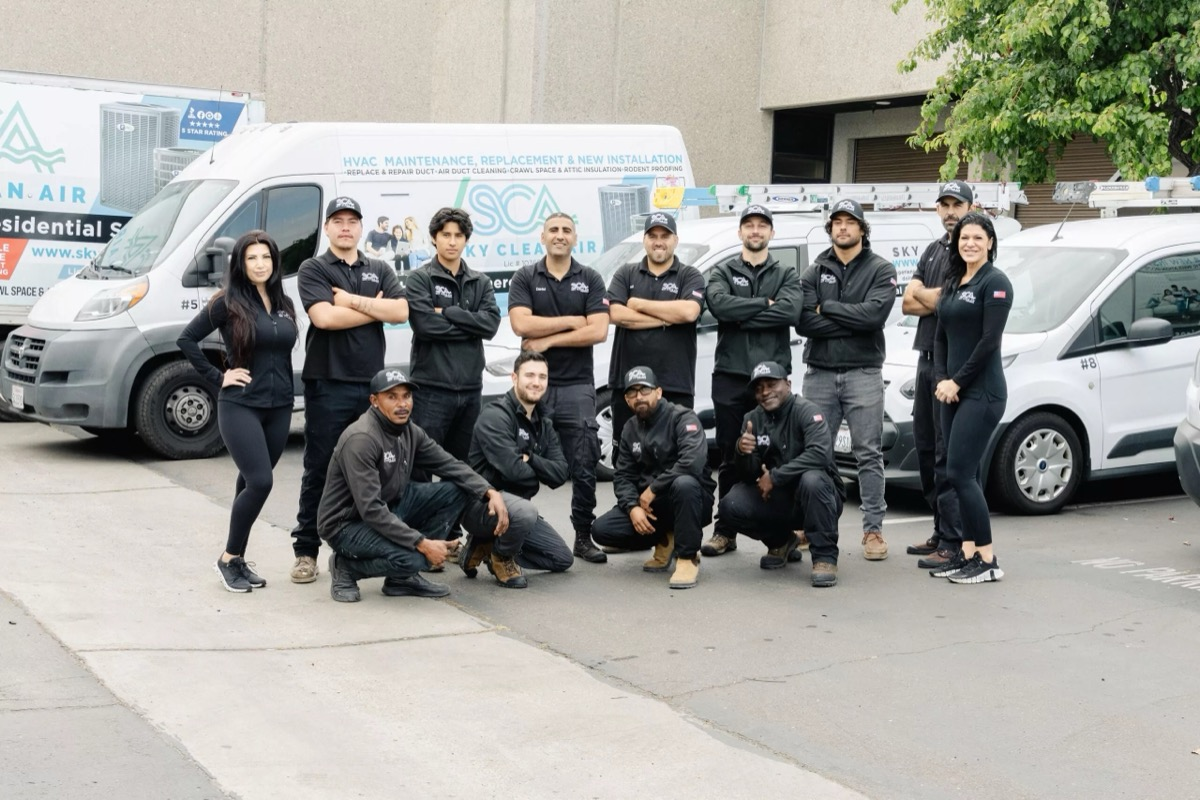
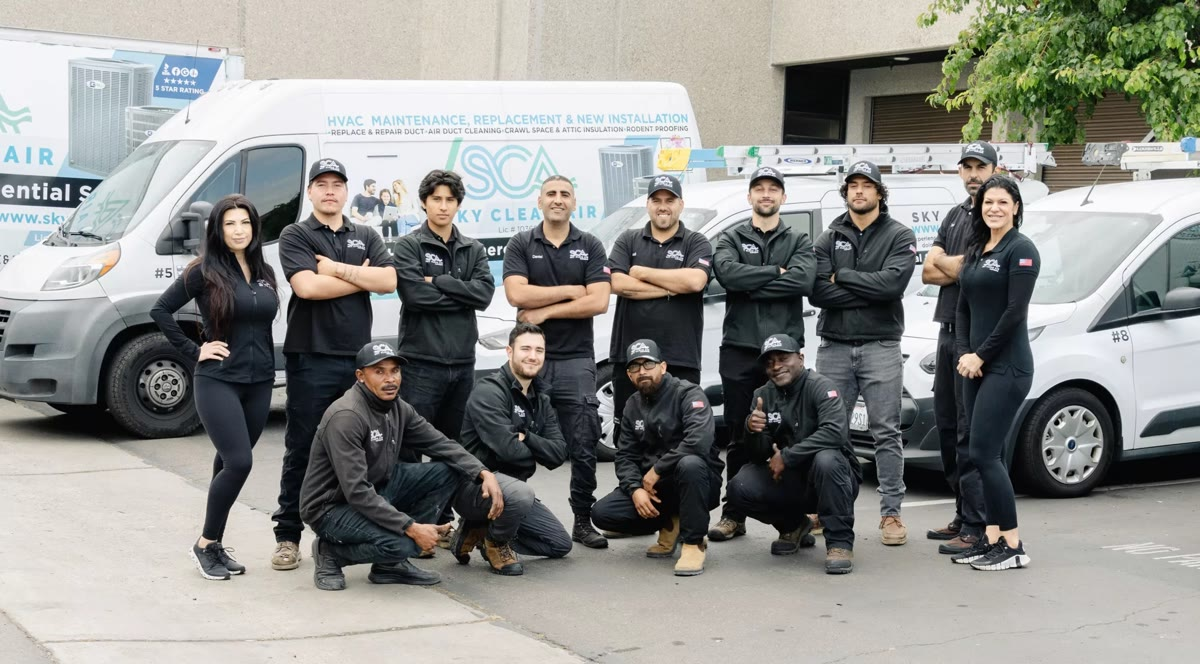
Tighten About section photo crop; harden hero video autoplay on mobile
- Cropped the team photo tighter (less surrounding pavement/sky) so the
  team fills more of the frame in the About section.
- Added webkit-playsinline/disablepictureinpicture attributes and explicit
  JS play() calls (on loadedmetadata/canplay, plus a first-interaction
  fallback) so the hero video actually starts instead of some mobile
  browsers showing a native play-button overlay while waiting.

diff --git a/js/app.js b/js/app.js
@@ -1,6 +1,22 @@
 (function () {
   'use strict';
 
+  // ---- Force hero video autoplay (some mobile browsers show a play
+  // button and wait instead of honoring the autoplay attribute) ----
+  var heroVideo = document.querySelector('.hero-video');
+  if (heroVideo) {
+    var tryPlay = function () {
+      var p = heroVideo.play();
+      if (p && p.catch) p.catch(function () {});
+    };
+    tryPlay();
+    heroVideo.addEventListener('loadedmetadata', tryPlay);
+    heroVideo.addEventListener('canplay', tryPlay);
+    ['touchstart', 'click'].forEach(function (evt) {
+      document.addEventListener(evt, tryPlay, { once: true, passive: true });
+    });
+  }
+
   // ---- Scrolled header state (transparent-over-hero -> solid fill) ----
   var updateScrolled = function () {
     document.body.classList.toggle('scrolled', window.scrollY > 8);

diff --git a/index.html b/index.html
@@ -87,7 +87,7 @@
 <main>
   <section class="hero">
     <div class="hero-media">
-      <video class="hero-video" autoplay muted loop playsinline poster="assets/images/hero-poster.jpg">
+      <video class="hero-video" autoplay muted loop playsinline webkit-playsinline disablepictureinpicture poster="assets/images/hero-poster.jpg">
         <source src="assets/video/hero-loop.webm" type="video/webm">
         <source src="assets/video/hero-loop.mp4" type="video/mp4">
       </video>
